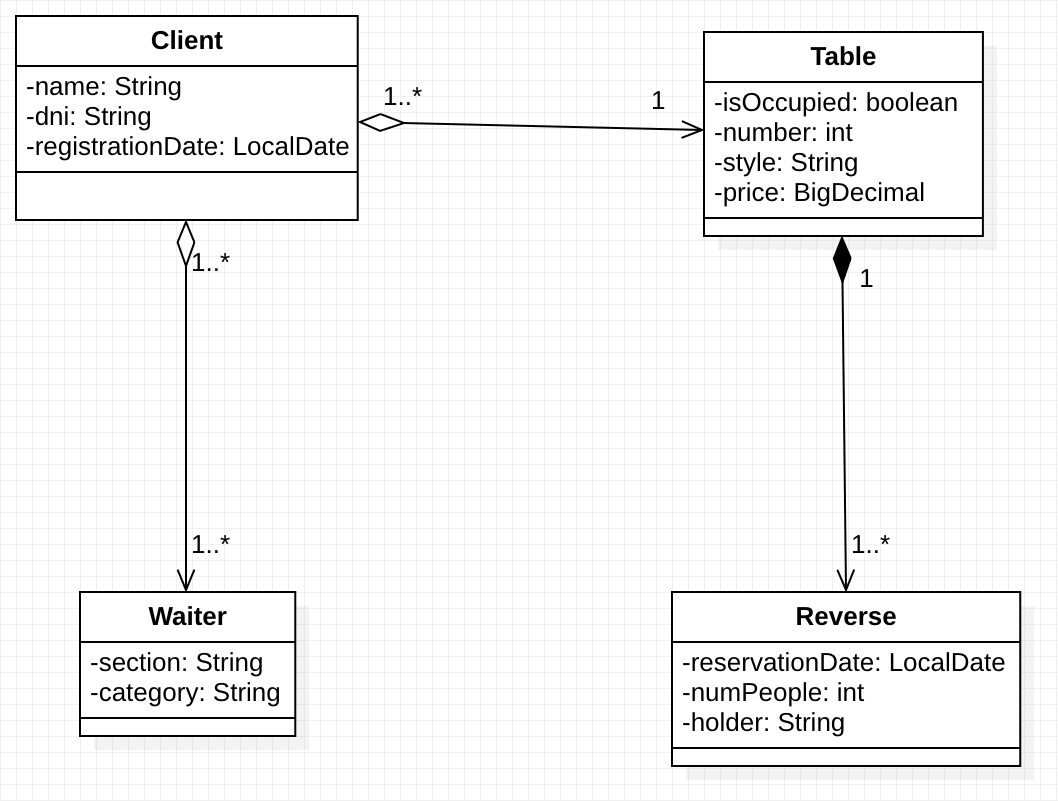
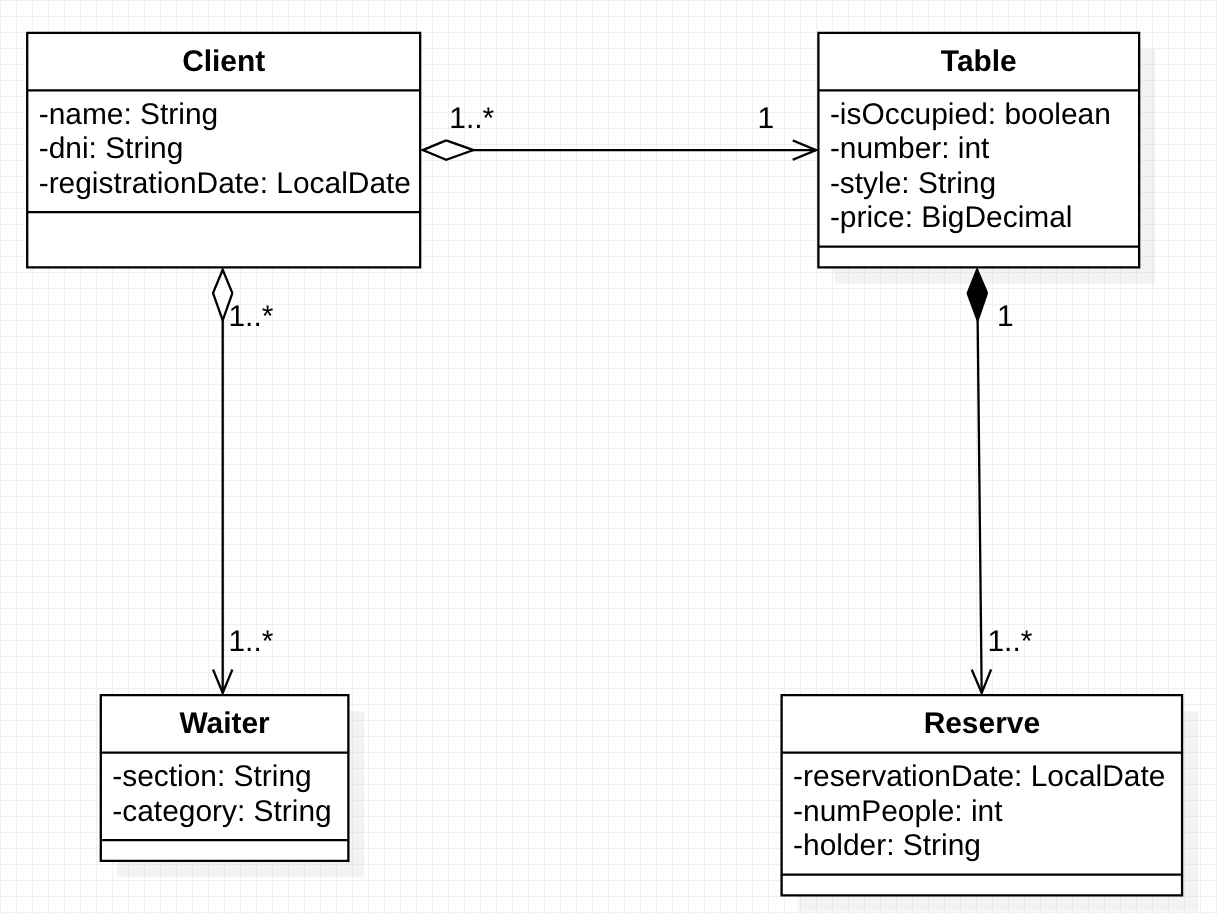
Updated UML & added model #11

Changed region(s): [[0.0, 0.0312, 0.9981, 0.9988]]

diff --git a/src/main/java/es/upm/miw/apaw_practice/domain/models/restaurant/Table.java b/src/main/java/es/upm/miw/apaw_practice/domain/models/restaurant/Table.java
@@ -1,0 +1,77 @@
+package es.upm.miw.apaw_practice.domain.models.restaurant;
+
+import java.math.BigDecimal;
+import java.util.List;
+
+public class Table {
+    private boolean isOccupied;
+    private int number;
+    private String style;
+    private BigDecimal price;
+    private List<Client> clients;
+    private List<Reserve> reserves;
+
+    Table(){
+        //empty for framework
+    }
+
+    public boolean isOccupied() {
+        return isOccupied;
+    }
+
+    public void setOccupied(boolean occupied) {
+        isOccupied = occupied;
+    }
+
+    public int getNumber() {
+        return number;
+    }
+
+    public void setNumber(int number) {
+        this.number = number;
+    }
+
+    public String getStyle() {
+        return style;
+    }
+
+    public void setStyle(String style) {
+        this.style = style;
+    }
+
+    public BigDecimal getPrice() {
+        return price;
+    }
+
+    public void setPrice(BigDecimal price) {
+        this.price = price;
+    }
+
+    public List<Client> getClients() {
+        return clients;
+    }
+
+    public void setClients(List<Client> clients) {
+        this.clients = clients;
+    }
+
+    public List<Reserve> getReserves() {
+        return reserves;
+    }
+
+    public void setReserves(List<Reserve> reserves) {
+        this.reserves = reserves;
+    }
+
+    @Override
+    public String toString() {
+        return "Table{" +
+                "isOccupied=" + isOccupied +
+                ", number=" + number +
+                ", style='" + style + '\'' +
+                ", price=" + price +
+                ", clients=" + clients +
+                ", reserves=" + reserves +
+                '}';
+    }
+}

diff --git a/src/main/java/es/upm/miw/apaw_practice/domain/models/restaurant/Client.java b/src/main/java/es/upm/miw/apaw_practice/domain/models/restaurant/Client.java
@@ -1,0 +1,67 @@
+package es.upm.miw.apaw_practice.domain.models.restaurant;
+
+import java.time.LocalDate;
+import java.util.List;
+
+public class Client {
+    private String name;
+    private String dni;
+    private LocalDate registrationDate;
+    private List<Waiter> waiter;
+    private Table table;
+
+    Client(){
+        //empty for framework
+    }
+
+    public String getName() {
+        return name;
+    }
+
+    public void setName(String name) {
+        this.name = name;
+    }
+
+    public String getDni() {
+        return dni;
+    }
+
+    public void setDni(String dni) {
+        this.dni = dni;
+    }
+
+    public LocalDate getRegistrationDate() {
+        return registrationDate;
+    }
+
+    public void setRegistrationDate(LocalDate registrationDate) {
+        this.registrationDate = registrationDate;
+    }
+
+    public List<Waiter> getWaiter() {
+        return waiter;
+    }
+
+    public void setWaiter(List<Waiter> waiter) {
+        this.waiter = waiter;
+    }
+
+    public Table getTable() {
+        return table;
+    }
+
+    public void setTable(Table table) {
+        this.table = table;
+    }
+
+    @Override
+    public String toString() {
+        return "Client{" +
+                "name='" + name + '\'' +
+                ", dni='" + dni + '\'' +
+                ", registrationDate=" + registrationDate +
+                ", waiter=" + waiter +
+                ", table=" + table +
+                '}';
+    }
+}

diff --git a/src/main/java/es/upm/miw/apaw_practice/domain/models/restaurant/Reserve.java b/src/main/java/es/upm/miw/apaw_practice/domain/models/restaurant/Reserve.java
@@ -1,0 +1,57 @@
+package es.upm.miw.apaw_practice.domain.models.restaurant;
+
+import java.time.LocalDate;
+
+public class Reserve {
+    private LocalDate reservationDate;
+    private int numPeople;
+    private String holder;
+    private Table table;
+
+    Reserve(){
+        //empty for framework
+    }
+
+    public LocalDate getReservationDate() {
+        return reservationDate;
+    }
+
+    public void setReservationDate(LocalDate reservationDate) {
+        this.reservationDate = reservationDate;
+    }
+
+    public int getNumPeople() {
+        return numPeople;
+    }
+
+    public void setNumPeople(int numPeople) {
+        this.numPeople = numPeople;
+    }
+
+    public String getHolder() {
+        return holder;
+    }
+
+    public void setHolder(String holder) {
+        this.holder = holder;
+    }
+
+    public Table getTable() {
+        return table;
+    }
+
+    public void setTable(Table table) {
+        this.table = table;
+    }
+
+    @Override
+    public String toString() {
+        return "Reserve{" +
+                "reservationDate=" + reservationDate +
+                ", numPeople=" + numPeople +
+                ", holder='" + holder + '\'' +
+                ", table=" + table +
+                '}';
+    }
+}
+

diff --git a/src/main/java/es/upm/miw/apaw_practice/domain/models/restaurant/Waiter.java b/src/main/java/es/upm/miw/apaw_practice/domain/models/restaurant/Waiter.java
@@ -1,0 +1,46 @@
+package es.upm.miw.apaw_practice.domain.models.restaurant;
+
+import java.util.List;
+
+public class Waiter {
+    private String section;
+    private String category;
+    private List<Client> clients;
+
+    Waiter(){
+        //empty for framework
+    }
+
+    public String getSection() {
+        return section;
+    }
+
+    public void setSection(String section) {
+        this.section = section;
+    }
+
+    public String getCategory() {
+        return category;
+    }
+
+    public void setCategory(String category) {
+        this.category = category;
+    }
+
+    public List<Client> getClients() {
+        return clients;
+    }
+
+    public void setClients(List<Client> clients) {
+        this.clients = clients;
+    }
+
+    @Override
+    public String toString() {
+        return "Waiter{" +
+                "section='" + section + '\'' +
+                ", category='" + category + '\'' +
+                ", clients=" + clients +
+                '}';
+    }
+}
